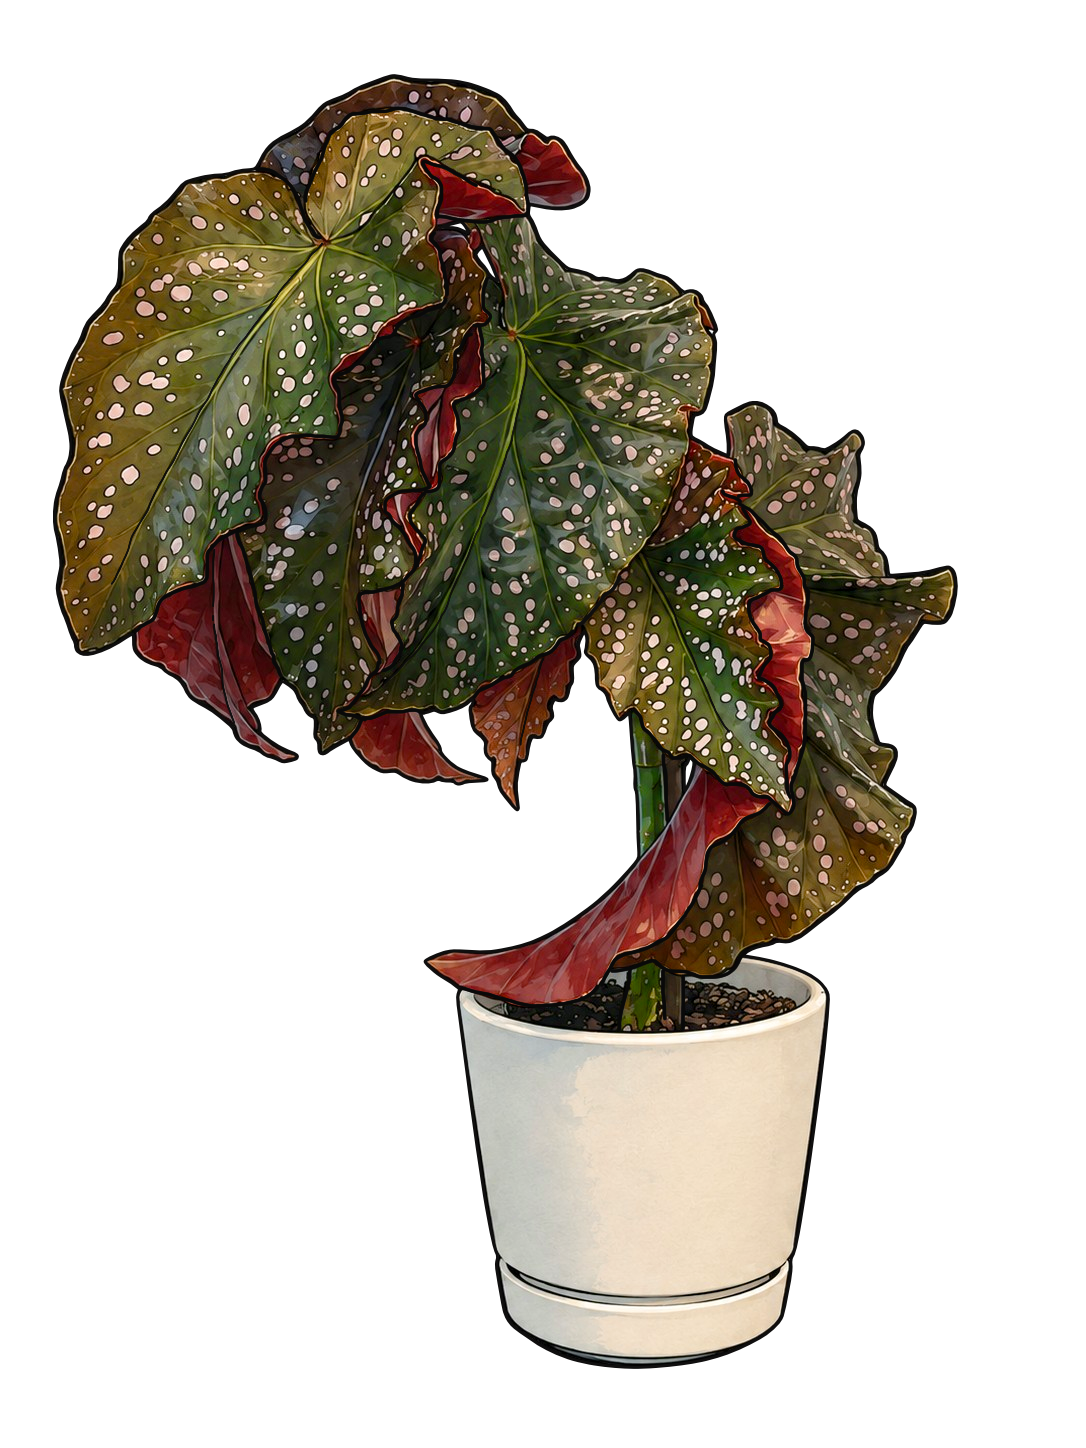
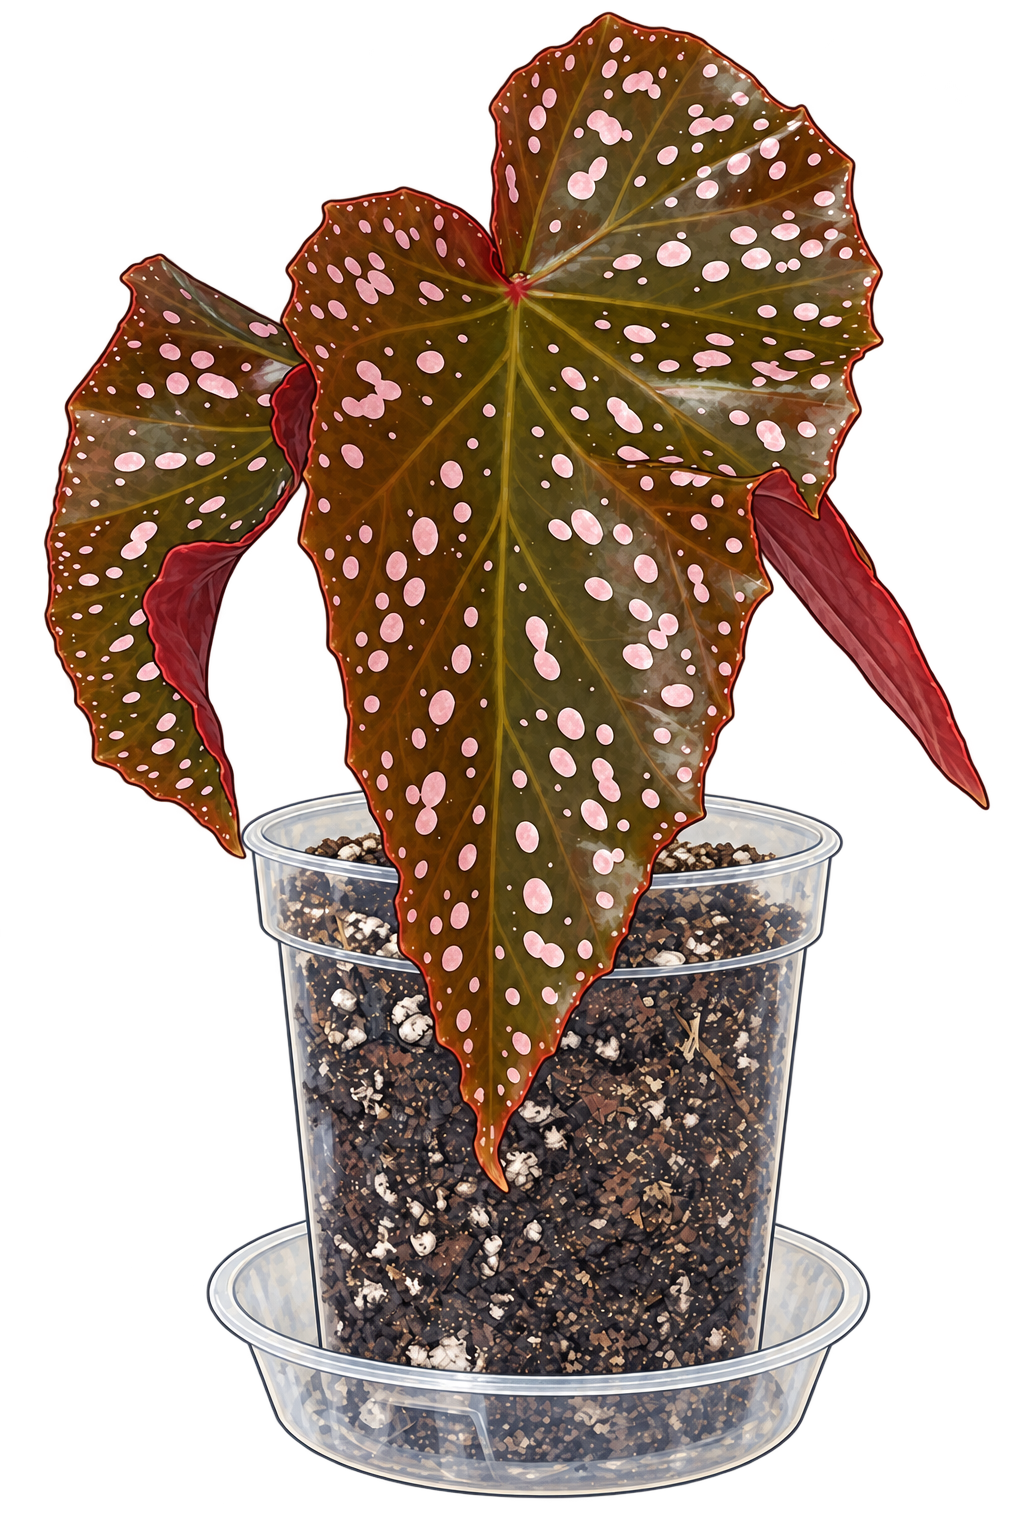
.

diff --git a/index.html b/index.html
@@ -3246,13 +3246,12 @@ const plants = [
     x: 53.9,
     y: 60.6,
     image: "plant-photos/begonia.jpeg",
-    outOfView: true,
     sticker: "plant-stickers/begonia.png",
     stickerWidth: 60,
-    lastWatered: "2026-05-07",
-    intervalDays: 6,
-    lastFertilized: "2026-04-30",
-    lastRepot: "2026-02-24"
+    lastWatered: "2026-10-16",
+    intervalDays: 3,
+    lastFertilized: "2026-10-16",
+    lastRepot: "2026-10-16"
   },
   {
     name: "Cathlea Zebrina",
@@ -3318,19 +3317,6 @@ const plants = [
     lastFertilized: "2026-06-19",
     lastRepot: "2026-06-19"
   },
-   {
-    name: "Monstera Electrolyte",
-    size: "3 inch pot",
-    x: 28.9,
-    y: 27.6,
-    image: "plant-photos/electrolyte.jpeg",
-    sticker: "plant-stickers/electrolyte.png",
-    stickerWidth: 60,
-    lastWatered: "2026-09-21",
-    intervalDays: 4,
-    lastFertilized: "2026-09-21",
-    lastRepot: "2026-09-21"
-  }, 
   {
     name: "Monstera Albo Variegata",
     size: "3 inch pot",
@@ -3398,43 +3384,29 @@ const plants = [
   },
   {
     name: "Monstera Deliciosa",
-    size: "8 inch pot",
-    x: 19.8,
-    y: 60.0,
-    image: "plant-photos/monstera2.jpeg",
-    outOfView: true,    
-    sticker: "plant-stickers/monstera2.png",
-    stickerWidth: 60,
-    lastWatered: "2026-05-06",
-    intervalDays: 9,
-    lastFertilized: "2026-04-26",
-    lastRepot: "2026-04-12"
-  },
-  {
-    name: "Monstera Deliciosa",
-    size: "12 inch pot",
+    size: "6 inch pot",
     x: 89.0,
     y: 76.8,
-    image: "plant-photos/monstera3.jpeg",
-    sticker: "plant-stickers/monstera3.png",
+    image: "plant-photos/monstera2.jpeg",
+    sticker: "plant-stickers/monstera2.png",
     stickerWidth: 60,
-    lastWatered: "2026-04-25",
+    lastWatered: "2026-10-16",
     intervalDays: 14,
-    lastFertilized: "2026-04-25",
-    lastRepot: "2025-12-12"
+    lastFertilized: "2026-10-16",
+    lastRepot: "2026-10-16"
   },
   {
     name: "Monstera Deliciosa",
     size: "6 inch pot",
     x: 28.9,
     y: 27.6,
-    image: "plant-photos/caleigh.jpeg",
-    sticker: "plant-stickers/caleigh.png",
+    image: "plant-photos/monstera3.jpeg",
+    sticker: "plant-stickers/monstera3.png",
     stickerWidth: 60,
-    lastWatered: "2026-06-19",
-    intervalDays: 8,
-    lastFertilized: "2026-06-19",
-    lastRepot: "2026-06-19"
+    lastWatered: "2026-10-16",
+    intervalDays: 14,
+    lastFertilized: "2026-10-16",
+    lastRepot: "2026-10-16"
   },
   {
     name: "Monstera Mint",
@@ -3450,18 +3422,57 @@ const plants = [
     lastRepot: "2026-07-23"
   },
   {
-    name: "Monstera Mint & Yellow Marilyn Propagation",
+    name: "Monstera Mint & Yellow Marilyn",
     size: "3 inch pot",
     x: 37.8,
     y: 36.0,
     image: "plant-photos/marilyn-mint-prop.jpeg",
-    sticker: "plant-stickers/marilyn-mint-prop.png",
+    sticker: "plant-stickers/marilyn-mint.png",
     stickerWidth: 60,
-    lastWatered: "2026-07-23",
+    lastWatered: "2026-10-16",
     intervalDays: 3,
-    lastFertilized: null,
-    lastRepot: null
+    lastFertilized: "2026-10-16",
+    lastRepot: "2026-10-16",
   },
+  {
+    name: "Monstera Electrolyte",
+    size: "4 inch pot",
+    x: 28.9,
+    y: 27.6,
+    image: "plant-photos/electrolyte.jpeg",
+    sticker: "plant-stickers/electrolyte.png",
+    stickerWidth: 60,
+    lastWatered: "2026-09-21",
+    intervalDays: 4,
+    lastFertilized: "2026-09-21",
+    lastRepot: "2026-09-21"
+  },   
+  {
+    name: "Monstera Golden",
+    size: "4 inch pot",
+    x: 28.9,
+    y: 27.6,
+    image: "plant-photos/golden.jpeg",
+    sticker: "plant-stickers/golden.png",
+    stickerWidth: 60,
+    lastWatered: "2026-10-19",
+    intervalDays: 4,
+    lastFertilized: "2026-10-19",
+    lastRepot: "2026-10-19"
+  },  
+  {
+    name: "Monstera Lecacy",
+    size: "4 inch pot",
+    x: 28.9,
+    y: 20.6,
+    image: "plant-photos/legacy.jpeg",
+    sticker: "plant-stickers/legacy.png",
+    stickerWidth: 60,
+    lastWatered: "2026-10-19",
+    intervalDays: 4,
+    lastFertilized: "2026-10-19",
+    lastRepot: "2026-10-19"
+  },      
   {
     name: "Monstera Thai Constellation",
     size: "10 inch pot",
